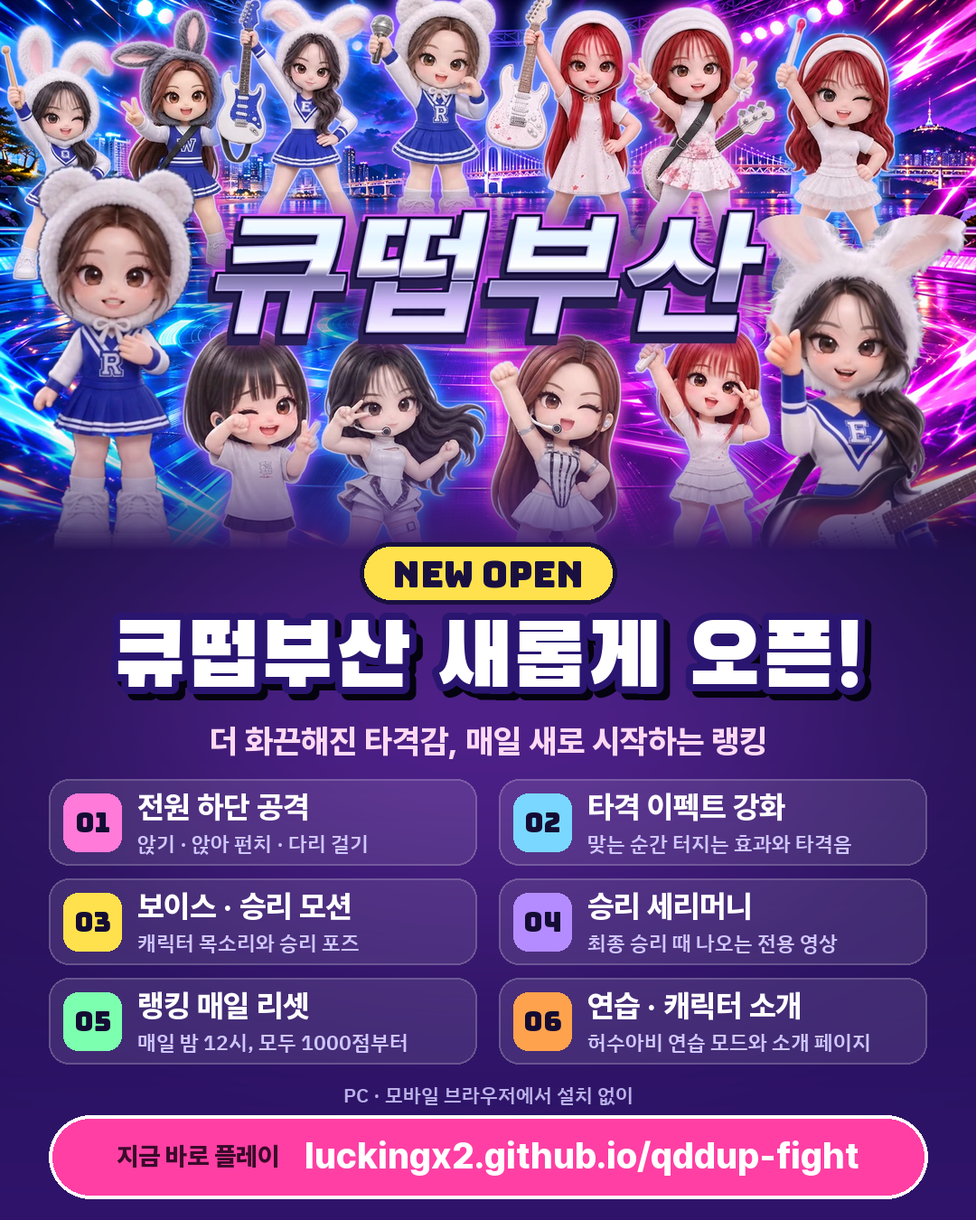
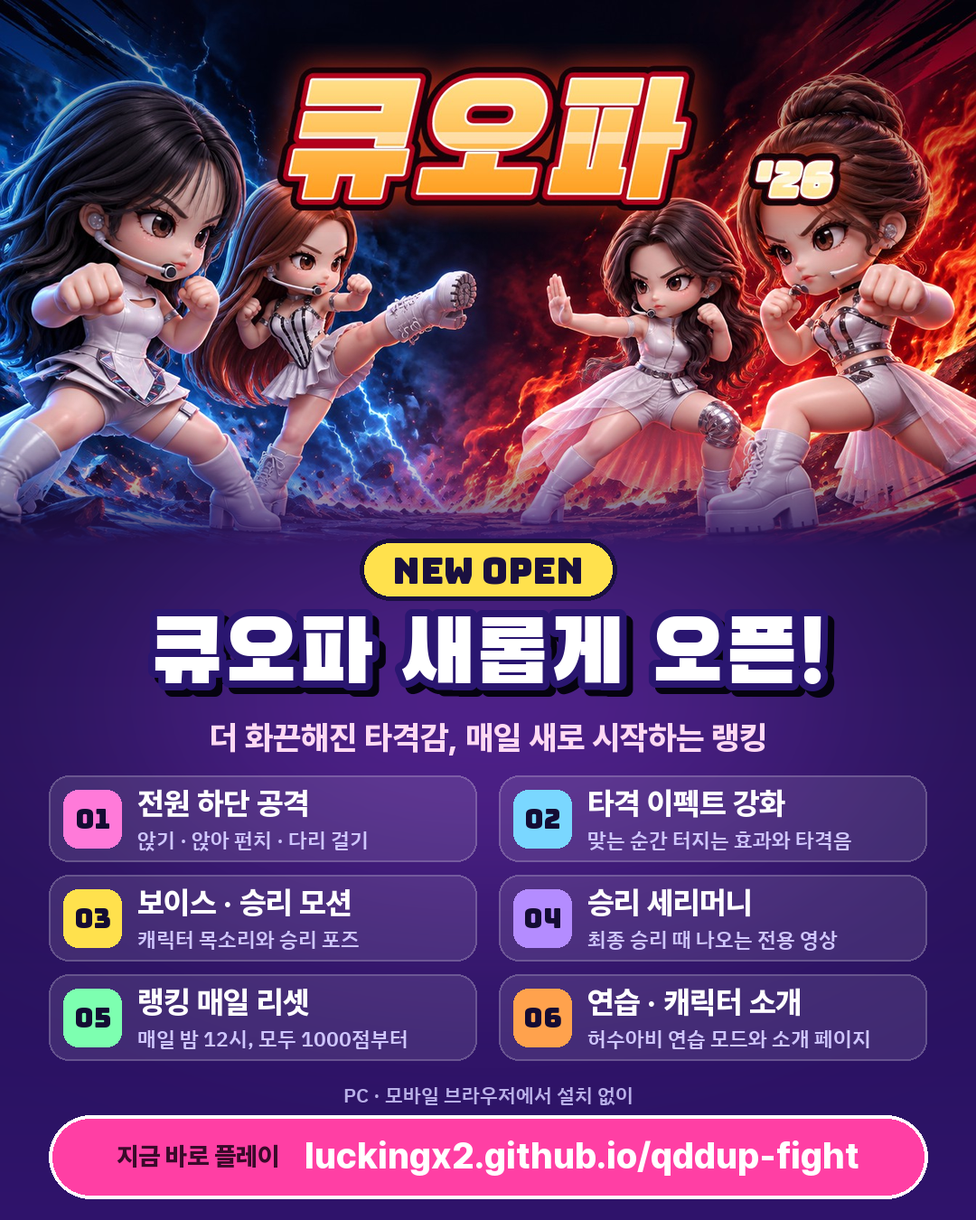
표지·썸네일·공지에서 큐떱·BUSAN 표기 제거

diff --git a/js/assetv.js b/js/assetv.js
@@ -1,2 +1,2 @@
-const ASSET_V={"assets/audio/bgm.mp3":"1aaba7b2","assets/audio/extra-1.mp3":"27643529","assets/audio/qwer-d-day.mp3":"2830167b","assets/audio/qwer-fake-idol.mp3":"d2b479f6","assets/audio/qwer-ferris-wheel.mp3":"120067c3","assets/audio/qwer-fireworks.mp3":"bdbf5ae5","assets/audio/qwer-goodbye-sorrow.mp3":"504b895b","assets/audio/qwer-my-name-is-malguem.mp3":"eebe45ad","assets/audio/qwer-search-qwer.mp3":"e2c33678","assets/audio/qwer-soda.mp3":"25b22c69","assets/audio/qwer-tb-h.mp3":"cb39dc88","assets/audio/voices/E-select.mp3":"017d7db5","assets/audio/voices/E-win.mp3":"9423c33f","assets/audio/voices/Q-select.mp3":"2b9a2cb5","assets/audio/voices/Q-win.mp3":"32c22843","assets/audio/voices/R-select.mp3":"67428aa2","assets/audio/voices/R-win.mp3":"421a2656","assets/audio/voices/W-select.mp3":"bfeec2d0","assets/audio/voices/W-win.mp3":"286b2432","assets/backgrounds/bg_anime.webp":"49189dc7","assets/backgrounds/bg_aqua.webp":"98b68019","assets/backgrounds/bg_band.webp":"b2ecf112","assets/backgrounds/bg_base.webp":"dd71b105","assets/backgrounds/bg_beach.webp":"48f2346a","assets/backgrounds/bg_bridge.webp":"cad93db2","assets/backgrounds/bg_chinatown.webp":"657c2390","assets/backgrounds/bg_classroom.webp":"5df32c50","assets/backgrounds/bg_concert.webp":"2cd4d734","assets/backgrounds/bg_donut.webp":"8b12e605","assets/backgrounds/bg_gym.webp":"c741473c","assets/backgrounds/bg_hanok.webp":"ea64c7f2","assets/backgrounds/bg_park.webp":"f8f69fbf","assets/backgrounds/bg_rain.webp":"c4dbcf99","assets/backgrounds/bg_rooftop.webp":"d08abb70","assets/backgrounds/bg_snow.webp":"0fe806eb","assets/backgrounds/bg_space.webp":"0ff66d08","assets/backgrounds/bg_terminal.webp":"d9e9f158","assets/backgrounds/bg_terminal_arcade.webp":"690b9758","assets/characters/B.webp":"c5a6628e","assets/characters/D.webp":"324939f1","assets/characters/E.webp":"677ed11c","assets/characters/Eb.webp":"11db0723","assets/characters/Ec.webp":"b31b9f96","assets/characters/G.webp":"42d3d0da","assets/characters/Q.webp":"325fa610","assets/characters/Qb.webp":"df11a9f2","assets/characters/Qc.webp":"ab10cb82","assets/characters/R.webp":"85eb20a9","assets/characters/Rb.webp":"7c654750","assets/characters/Rc.webp":"2e6c0a8f","assets/characters/Rd.webp":"b71dec04","assets/characters/W.webp":"9e1fc381","assets/characters/Wb.webp":"ae1be10e","assets/characters/Wc.webp":"da20931e","assets/characters/ostrich-r.webp":"f36485a3","assets/emotes/icon_1.webp":"e834c9fc","assets/emotes/icon_13.webp":"ced6be1a","assets/emotes/icon_19.webp":"6eca9b25","assets/emotes/icon_22.webp":"ad3d03f1","assets/emotes/icon_28.webp":"cb4c7512","assets/emotes/icon_33.webp":"57cf40f0","assets/emotes/icon_34.webp":"333682d6","assets/emotes/icon_36.webp":"1de00e10","assets/emotes/icon_38.webp":"52043a2f","assets/emotes/icon_39.webp":"ff33cab9","assets/emotes/icon_41.webp":"3f5fabf0","assets/emotes/icon_45.webp":"addf7b16","assets/emotes/icon_46.webp":"024ab088","assets/emotes/icon_49.webp":"be67b384","assets/emotes/icon_50.webp":"3c880ad8","assets/emotes/icon_57.webp":"7f6e5ae8","assets/emotes/icon_62.webp":"099a9ec7","assets/emotes/icon_65.webp":"d664ad8d","assets/emotes/icon_69.webp":"2050c1ed","assets/emotes/icon_8.webp":"3fe0846f","assets/emotes/icon_87.webp":"905d0d99","assets/emotes/icon_89.webp":"37372a3d","assets/emotes/icon_91.webp":"89b48092","assets/emotes/icon_92.webp":"6fb425ef","assets/emotes/icon_94.webp":"b110da8e","assets/emotes/icon_95.webp":"9a6b4437","assets/emotes/icon_98.webp":"2d258415","assets/emotes/thumb/icon_1.webp":"136837e5","assets/emotes/thumb/icon_13.webp":"5e3867c1","assets/emotes/thumb/icon_19.webp":"d6eb0f03","assets/emotes/thumb/icon_22.webp":"a767fc76","assets/emotes/thumb/icon_28.webp":"ec98b5a2","assets/emotes/thumb/icon_33.webp":"6408ba02","assets/emotes/thumb/icon_34.webp":"2aa3c54a","assets/emotes/thumb/icon_36.webp":"dc3e9788","assets/emotes/thumb/icon_38.webp":"7f85a09d","assets/emotes/thumb/icon_39.webp":"b1fadb0d","assets/emotes/thumb/icon_41.webp":"7303712b","assets/emotes/thumb/icon_45.webp":"7a1924c5","assets/emotes/thumb/icon_46.webp":"5835c768","assets/emotes/thumb/icon_49.webp":"50c5dac4","assets/emotes/thumb/icon_50.webp":"d23a8087","assets/emotes/thumb/icon_57.webp":"40b0eed8","assets/emotes/thumb/icon_62.webp":"a3d334ca","assets/emotes/thumb/icon_65.webp":"d96399f3","assets/emotes/thumb/icon_69.webp":"75195972","assets/emotes/thumb/icon_8.webp":"c5c82ee8","assets/emotes/thumb/icon_87.webp":"75462682","assets/emotes/thumb/icon_89.webp":"fa2fb05b","assets/emotes/thumb/icon_91.webp":"31208034","assets/emotes/thumb/icon_92.webp":"5de92e6a","assets/emotes/thumb/icon_94.webp":"87c7110b","assets/emotes/thumb/icon_95.webp":"eff04fc8","assets/emotes/thumb/icon_98.webp":"5caa213a","assets/faces/B_face.webp":"b1b04403","assets/faces/D_face.webp":"019111cc","assets/faces/E_face.webp":"5a365c76","assets/faces/Eb_face.webp":"52f1f416","assets/faces/Ec_face.webp":"0a22ee57","assets/faces/G_face.webp":"2df10de9","assets/faces/Q_face.webp":"842ad22d","assets/faces/Qb_face.webp":"480c3aff","assets/faces/Qc_face.webp":"30e2ab72","assets/faces/R_face.webp":"646f2d28","assets/faces/Rb_face.webp":"cb5505b5","assets/faces/Rc_face.webp":"025bb463","assets/faces/Rd_face.webp":"f00b88dc","assets/faces/W_face.webp":"c8fbc6b3","assets/faces/Wb_face.webp":"2849e1bc","assets/faces/Wc_face.webp":"2972e762","assets/fonts/BlackHanSans.woff2":"c73265bb","assets/fonts/Bungee.woff2":"8ac97fda","assets/fonts/IBMPlexSansKR-Regular.woff2":"737cb610","assets/fonts/IBMPlexSansKR-SemiBold.woff2":"57c25254","assets/fonts/OFL-BlackHanSans.txt":"380fde59","assets/fonts/OFL-Bungee.txt":"56667743","assets/fonts/OFL-IBMPlexSansKR.txt":"cc979ca3","assets/fonts/OFL-Pretendard.txt":"18fe4610","assets/fonts/Pretendard-ExtraBold.woff2":"1b077a90","assets/lib/peerjs.min.js":"7e60515a","assets/thumbnails/th_anime.jpg":"b3ed8d6a","assets/thumbnails/th_aqua.jpg":"b6233e26","assets/thumbnails/th_band.jpg":"aa12367e","assets/thumbnails/th_base.jpg":"a0ca34c4","assets/thumbnails/th_beach.jpg":"015c1b5a","assets/thumbnails/th_bridge.jpg":"9602dd89","assets/thumbnails/th_chinatown.jpg":"71309555","assets/thumbnails/th_classroom.jpg":"539fc97d","assets/thumbnails/th_concert.jpg":"b9ed6681","assets/thumbnails/th_donut.jpg":"0606e81c","assets/thumbnails/th_gym.jpg":"4426af79","assets/thumbnails/th_hanok.jpg":"df80f531","assets/thumbnails/th_park.jpg":"cf62f3c3","assets/thumbnails/th_rain.jpg":"515447f1","assets/thumbnails/th_rooftop.jpg":"bfd5d01a","assets/thumbnails/th_snow.jpg":"0159d7c5","assets/thumbnails/th_space.jpg":"5184dfa8","assets/thumbnails/th_terminal.jpg":"62f1e04b","assets/thumbnails/th_terminal_arcade.jpg":"ebf49341","assets/ui/qddup-busan-cover.jpg":"04b05f5f","assets/ui/qddup-busan-share.jpg":"23fca48c","assets/ui/qddup-busan-title.mp4":"1bfd18a7","assets/ui/qofa-cover.jpg":"c94842ad","assets/ui/qofa-share.jpg":"9a9f7c7e","assets/ui/roster-energy.webp":"add15ffe","assets/ui/roster/B.webp":"7de4b487","assets/ui/roster/E.webp":"940c568d","assets/ui/roster/Eb.webp":"bd00a1c0","assets/ui/roster/Ec.webp":"9044e970","assets/ui/roster/G.webp":"acd26a21","assets/ui/roster/Q.webp":"91b08bca","assets/ui/roster/Qb.webp":"315030af","assets/ui/roster/Qc.webp":"807f094b","assets/ui/roster/R.webp":"129f48d1","assets/ui/roster/Rb.webp":"536e0533","assets/ui/roster/Rc.webp":"50afe96b","assets/ui/roster/Rd.webp":"08cb5ab8","assets/ui/roster/W.webp":"070725d0","assets/ui/roster/Wb.webp":"c2614728","assets/ui/roster/Wc.webp":"f48d9b9d","assets/ui/title.jpg":"89b0c471","assets/videos/sp_B.mp4":"150e2f15","assets/videos/sp_E2.mp4":"21736269","assets/videos/sp_ET.mp4":"9086c33e","assets/videos/sp_E_fire.mp4":"5477b0e8","assets/videos/sp_Eb_fire.mp4":"3722005c","assets/videos/sp_Ec_fire.mp4":"af3d6c72","assets/videos/sp_G.mp4":"02491534","assets/videos/sp_GT.mp4":"ea8f6b3c","assets/videos/sp_Q.mp4":"9d97462e","assets/videos/sp_Q2.mp4":"eccec935","assets/videos/sp_QT.mp4":"517d9216","assets/videos/sp_Qb.mp4":"ae050595","assets/videos/sp_QbT.mp4":"f0f7e747","assets/videos/sp_Qc.mp4":"c8c7d81f","assets/videos/sp_QcT.mp4":"b05c5bd9","assets/videos/sp_R.mp4":"5e365d9b","assets/videos/sp_R2.mp4":"4cc11253","assets/videos/sp_RT.mp4":"2159bf91","assets/videos/sp_Rb.mp4":"c2c76571","assets/videos/sp_Rc.mp4":"cf1e9842","assets/videos/sp_RcT.mp4":"ee13eac9","assets/videos/sp_Rd.mp4":"d3ba4c66","assets/videos/sp_W.mp4":"631249ac","assets/videos/sp_W2.mp4":"34a85605","assets/videos/sp_WT.mp4":"455ada0a","assets/videos/sp_Wb.mp4":"28692d4d","assets/videos/sp_WbT.mp4":"d18a11b6","assets/videos/sp_Wc.mp4":"3fe96d12","assets/videos/sp_WcT.mp4":"e9213c75","assets/videos/win_E.mp4":"61c0dbbd","assets/videos/win_Eb.mp4":"f2eac728","assets/videos/win_Ec.mp4":"e704afee","assets/videos/win_Q.mp4":"f5259b04","assets/videos/win_Qb.mp4":"823f7246","assets/videos/win_Qc.mp4":"6fced5a8","assets/videos/win_R.mp4":"85216692","assets/videos/win_Rb.mp4":"78ffa0bc","assets/videos/win_Rc.mp4":"93689f08","assets/videos/win_Rd.mp4":"befb25e6","assets/videos/win_W.mp4":"bd2d0315","assets/videos/win_Wb.mp4":"349f8de9","assets/videos/win_Wc.mp4":"0f0dc337"};
-const ASSET_SZ={"assets/audio/bgm.mp3":2772671,"assets/audio/extra-1.mp3":1421208,"assets/audio/qwer-d-day.mp3":3481677,"assets/audio/qwer-fake-idol.mp3":3182324,"assets/audio/qwer-ferris-wheel.mp3":4416345,"assets/audio/qwer-fireworks.mp3":4191692,"assets/audio/qwer-goodbye-sorrow.mp3":6512732,"assets/audio/qwer-my-name-is-malguem.mp3":2423692,"assets/audio/qwer-search-qwer.mp3":3201656,"assets/audio/qwer-soda.mp3":2520451,"assets/audio/qwer-tb-h.mp3":2492552,"assets/audio/voices/E-select.mp3":56436,"assets/audio/voices/E-win.mp3":50100,"assets/audio/voices/Q-select.mp3":24180,"assets/audio/voices/Q-win.mp3":56436,"assets/audio/voices/R-select.mp3":21045,"assets/audio/voices/R-win.mp3":50733,"assets/audio/voices/W-select.mp3":41460,"assets/audio/voices/W-win.mp3":52980,"assets/backgrounds/bg_anime.webp":271666,"assets/backgrounds/bg_aqua.webp":234124,"assets/backgrounds/bg_band.webp":259886,"assets/backgrounds/bg_base.webp":242646,"assets/backgrounds/bg_beach.webp":207688,"assets/backgrounds/bg_bridge.webp":245720,"assets/backgrounds/bg_chinatown.webp":352216,"assets/backgrounds/bg_classroom.webp":211716,"assets/backgrounds/bg_concert.webp":351622,"assets/backgrounds/bg_donut.webp":157200,"assets/backgrounds/bg_gym.webp":192070,"assets/backgrounds/bg_hanok.webp":323540,"assets/backgrounds/bg_park.webp":255544,"assets/backgrounds/bg_rain.webp":325186,"assets/backgrounds/bg_rooftop.webp":285004,"assets/backgrounds/bg_snow.webp":257586,"assets/backgrounds/bg_space.webp":159604,"assets/backgrounds/bg_terminal.webp":180640,"assets/backgrounds/bg_terminal_arcade.webp":196664,"assets/characters/B.webp":383354,"assets/characters/D.webp":77542,"assets/characters/E.webp":439222,"assets/characters/Eb.webp":542744,"assets/characters/Ec.webp":439992,"assets/characters/G.webp":308240,"assets/characters/Q.webp":439468,"assets/characters/Qb.webp":557222,"assets/characters/Qc.webp":408770,"assets/characters/R.webp":385970,"assets/characters/Rb.webp":419060,"assets/characters/Rc.webp":262474,"assets/characters/Rd.webp":367076,"assets/characters/W.webp":417796,"assets/characters/Wb.webp":504586,"assets/characters/Wc.webp":438174,"assets/characters/ostrich-r.webp":95146,"assets/emotes/icon_1.webp":24284,"assets/emotes/icon_13.webp":11612,"assets/emotes/icon_19.webp":11468,"assets/emotes/icon_22.webp":104130,"assets/emotes/icon_28.webp":72896,"assets/emotes/icon_33.webp":68612,"assets/emotes/icon_34.webp":87226,"assets/emotes/icon_36.webp":12980,"assets/emotes/icon_38.webp":12060,"assets/emotes/icon_39.webp":42844,"assets/emotes/icon_41.webp":12516,"assets/emotes/icon_45.webp":10738,"assets/emotes/icon_46.webp":13110,"assets/emotes/icon_49.webp":303222,"assets/emotes/icon_50.webp":128238,"assets/emotes/icon_57.webp":483596,"assets/emotes/icon_62.webp":24446,"assets/emotes/icon_65.webp":306944,"assets/emotes/icon_69.webp":251610,"assets/emotes/icon_8.webp":10938,"assets/emotes/icon_87.webp":91344,"assets/emotes/icon_89.webp":88876,"assets/emotes/icon_91.webp":62702,"assets/emotes/icon_92.webp":63076,"assets/emotes/icon_94.webp":11038,"assets/emotes/icon_95.webp":10806,"assets/emotes/icon_98.webp":239080,"assets/emotes/thumb/icon_1.webp":7826,"assets/emotes/thumb/icon_13.webp":8382,"assets/emotes/thumb/icon_19.webp":8352,"assets/emotes/thumb/icon_22.webp":7784,"assets/emotes/thumb/icon_28.webp":7924,"assets/emotes/thumb/icon_33.webp":8026,"assets/emotes/thumb/icon_34.webp":8784,"assets/emotes/thumb/icon_36.webp":9036,"assets/emotes/thumb/icon_38.webp":8554,"assets/emotes/thumb/icon_39.webp":7942,"assets/emotes/thumb/icon_41.webp":8642,"assets/emotes/thumb/icon_45.webp":7962,"assets/emotes/thumb/icon_46.webp":8930,"assets/emotes/thumb/icon_49.webp":8634,"assets/emotes/thumb/icon_50.webp":7804,"assets/emotes/thumb/icon_57.webp":8212,"assets/emotes/thumb/icon_62.webp":8168,"assets/emotes/thumb/icon_65.webp":8550,"assets/emotes/thumb/icon_69.webp":8106,"assets/emotes/thumb/icon_8.webp":8208,"assets/emotes/thumb/icon_87.webp":9368,"assets/emotes/thumb/icon_89.webp":9366,"assets/emotes/thumb/icon_91.webp":8526,"assets/emotes/thumb/icon_92.webp":8508,"assets/emotes/thumb/icon_94.webp":8008,"assets/emotes/thumb/icon_95.webp":8006,"assets/emotes/thumb/icon_98.webp":7554,"assets/faces/B_face.webp":26876,"assets/faces/D_face.webp":30910,"assets/faces/E_face.webp":31448,"assets/faces/Eb_face.webp":28958,"assets/faces/Ec_face.webp":29514,"assets/faces/G_face.webp":34300,"assets/faces/Q_face.webp":31514,"assets/faces/Qb_face.webp":25830,"assets/faces/Qc_face.webp":26818,"assets/faces/R_face.webp":29534,"assets/faces/Rb_face.webp":29564,"assets/faces/Rc_face.webp":27480,"assets/faces/Rd_face.webp":34056,"assets/faces/W_face.webp":34596,"assets/faces/Wb_face.webp":32668,"assets/faces/Wc_face.webp":28818,"assets/fonts/BlackHanSans.woff2":166800,"assets/fonts/Bungee.woff2":13352,"assets/fonts/IBMPlexSansKR-Regular.woff2":226624,"assets/fonts/IBMPlexSansKR-SemiBold.woff2":264208,"assets/fonts/OFL-BlackHanSans.txt":4399,"assets/fonts/OFL-Bungee.txt":4380,"assets/fonts/OFL-IBMPlexSansKR.txt":4363,"assets/fonts/OFL-Pretendard.txt":4441,"assets/fonts/Pretendard-ExtraBold.woff2":182064,"assets/lib/peerjs.min.js":92865,"assets/thumbnails/th_anime.jpg":31332,"assets/thumbnails/th_aqua.jpg":29758,"assets/thumbnails/th_band.jpg":30030,"assets/thumbnails/th_base.jpg":24583,"assets/thumbnails/th_beach.jpg":26187,"assets/thumbnails/th_bridge.jpg":22121,"assets/thumbnails/th_chinatown.jpg":26539,"assets/thumbnails/th_classroom.jpg":21560,"assets/thumbnails/th_concert.jpg":34117,"assets/thumbnails/th_donut.jpg":26806,"assets/thumbnails/th_gym.jpg":30375,"assets/thumbnails/th_hanok.jpg":30309,"assets/thumbnails/th_park.jpg":29202,"assets/thumbnails/th_rain.jpg":23667,"assets/thumbnails/th_rooftop.jpg":29082,"assets/thumbnails/th_snow.jpg":31092,"assets/thumbnails/th_space.jpg":27325,"assets/thumbnails/th_terminal.jpg":19029,"assets/thumbnails/th_terminal_arcade.jpg":22903,"assets/ui/qddup-busan-cover.jpg":595026,"assets/ui/qddup-busan-share.jpg":321761,"assets/ui/qddup-busan-title.mp4":6951589,"assets/ui/qofa-cover.jpg":348381,"assets/ui/qofa-share.jpg":244579,"assets/ui/roster-energy.webp":66212,"assets/ui/roster/B.webp":32290,"assets/ui/roster/E.webp":30794,"assets/ui/roster/Eb.webp":61010,"assets/ui/roster/Ec.webp":48316,"assets/ui/roster/G.webp":26892,"assets/ui/roster/Q.webp":34780,"assets/ui/roster/Qb.webp":42952,"assets/ui/roster/Qc.webp":35238,"assets/ui/roster/R.webp":43480,"assets/ui/roster/Rb.webp":34188,"assets/ui/roster/Rc.webp":20354,"assets/ui/roster/Rd.webp":31504,"assets/ui/roster/W.webp":31680,"assets/ui/roster/Wb.webp":44496,"assets/ui/roster/Wc.webp":40038,"assets/ui/title.jpg":462238,"assets/videos/sp_B.mp4":344913,"assets/videos/sp_E2.mp4":555611,"assets/videos/sp_ET.mp4":590812,"assets/videos/sp_E_fire.mp4":485303,"assets/videos/sp_Eb_fire.mp4":540582,"assets/videos/sp_Ec_fire.mp4":462202,"assets/videos/sp_G.mp4":391907,"assets/videos/sp_GT.mp4":327412,"assets/videos/sp_Q.mp4":576475,"assets/videos/sp_Q2.mp4":446211,"assets/videos/sp_QT.mp4":552351,"assets/videos/sp_Qb.mp4":895493,"assets/videos/sp_QbT.mp4":958651,"assets/videos/sp_Qc.mp4":515706,"assets/videos/sp_QcT.mp4":543566,"assets/videos/sp_R.mp4":570469,"assets/videos/sp_R2.mp4":581679,"assets/videos/sp_RT.mp4":728137,"assets/videos/sp_Rb.mp4":450254,"assets/videos/sp_Rc.mp4":604079,"assets/videos/sp_RcT.mp4":732498,"assets/videos/sp_Rd.mp4":302202,"assets/videos/sp_W.mp4":487224,"assets/videos/sp_W2.mp4":595850,"assets/videos/sp_WT.mp4":682716,"assets/videos/sp_Wb.mp4":463691,"assets/videos/sp_WbT.mp4":806668,"assets/videos/sp_Wc.mp4":368021,"assets/videos/sp_WcT.mp4":518172,"assets/videos/win_E.mp4":1664151,"assets/videos/win_Eb.mp4":1416780,"assets/videos/win_Ec.mp4":1516352,"assets/videos/win_Q.mp4":1371788,"assets/videos/win_Qb.mp4":1334217,"assets/videos/win_Qc.mp4":1481245,"assets/videos/win_R.mp4":1211274,"assets/videos/win_Rb.mp4":1201611,"assets/videos/win_Rc.mp4":1199946,"assets/videos/win_Rd.mp4":1812226,"assets/videos/win_W.mp4":1770408,"assets/videos/win_Wb.mp4":1332037,"assets/videos/win_Wc.mp4":1279533};
+const ASSET_V={"assets/audio/bgm.mp3":"1aaba7b2","assets/audio/extra-1.mp3":"27643529","assets/audio/qwer-d-day.mp3":"2830167b","assets/audio/qwer-fake-idol.mp3":"d2b479f6","assets/audio/qwer-ferris-wheel.mp3":"120067c3","assets/audio/qwer-fireworks.mp3":"bdbf5ae5","assets/audio/qwer-goodbye-sorrow.mp3":"504b895b","assets/audio/qwer-my-name-is-malguem.mp3":"eebe45ad","assets/audio/qwer-search-qwer.mp3":"e2c33678","assets/audio/qwer-soda.mp3":"25b22c69","assets/audio/qwer-tb-h.mp3":"cb39dc88","assets/audio/voices/E-select.mp3":"017d7db5","assets/audio/voices/E-win.mp3":"9423c33f","assets/audio/voices/Q-select.mp3":"2b9a2cb5","assets/audio/voices/Q-win.mp3":"32c22843","assets/audio/voices/R-select.mp3":"67428aa2","assets/audio/voices/R-win.mp3":"421a2656","assets/audio/voices/W-select.mp3":"bfeec2d0","assets/audio/voices/W-win.mp3":"286b2432","assets/backgrounds/bg_anime.webp":"49189dc7","assets/backgrounds/bg_aqua.webp":"98b68019","assets/backgrounds/bg_band.webp":"b2ecf112","assets/backgrounds/bg_base.webp":"dd71b105","assets/backgrounds/bg_beach.webp":"48f2346a","assets/backgrounds/bg_bridge.webp":"cad93db2","assets/backgrounds/bg_chinatown.webp":"657c2390","assets/backgrounds/bg_classroom.webp":"5df32c50","assets/backgrounds/bg_concert.webp":"2cd4d734","assets/backgrounds/bg_donut.webp":"8b12e605","assets/backgrounds/bg_gym.webp":"c741473c","assets/backgrounds/bg_hanok.webp":"ea64c7f2","assets/backgrounds/bg_park.webp":"f8f69fbf","assets/backgrounds/bg_rain.webp":"c4dbcf99","assets/backgrounds/bg_rooftop.webp":"d08abb70","assets/backgrounds/bg_snow.webp":"0fe806eb","assets/backgrounds/bg_space.webp":"0ff66d08","assets/backgrounds/bg_terminal.webp":"d9e9f158","assets/backgrounds/bg_terminal_arcade.webp":"690b9758","assets/characters/B.webp":"c5a6628e","assets/characters/D.webp":"324939f1","assets/characters/E.webp":"677ed11c","assets/characters/Eb.webp":"11db0723","assets/characters/Ec.webp":"b31b9f96","assets/characters/G.webp":"42d3d0da","assets/characters/Q.webp":"325fa610","assets/characters/Qb.webp":"df11a9f2","assets/characters/Qc.webp":"ab10cb82","assets/characters/R.webp":"85eb20a9","assets/characters/Rb.webp":"7c654750","assets/characters/Rc.webp":"2e6c0a8f","assets/characters/Rd.webp":"b71dec04","assets/characters/W.webp":"9e1fc381","assets/characters/Wb.webp":"ae1be10e","assets/characters/Wc.webp":"da20931e","assets/characters/ostrich-r.webp":"f36485a3","assets/emotes/icon_1.webp":"e834c9fc","assets/emotes/icon_13.webp":"ced6be1a","assets/emotes/icon_19.webp":"6eca9b25","assets/emotes/icon_22.webp":"ad3d03f1","assets/emotes/icon_28.webp":"cb4c7512","assets/emotes/icon_33.webp":"57cf40f0","assets/emotes/icon_34.webp":"333682d6","assets/emotes/icon_36.webp":"1de00e10","assets/emotes/icon_38.webp":"52043a2f","assets/emotes/icon_39.webp":"ff33cab9","assets/emotes/icon_41.webp":"3f5fabf0","assets/emotes/icon_45.webp":"addf7b16","assets/emotes/icon_46.webp":"024ab088","assets/emotes/icon_49.webp":"be67b384","assets/emotes/icon_50.webp":"3c880ad8","assets/emotes/icon_57.webp":"7f6e5ae8","assets/emotes/icon_62.webp":"099a9ec7","assets/emotes/icon_65.webp":"d664ad8d","assets/emotes/icon_69.webp":"2050c1ed","assets/emotes/icon_8.webp":"3fe0846f","assets/emotes/icon_87.webp":"905d0d99","assets/emotes/icon_89.webp":"37372a3d","assets/emotes/icon_91.webp":"89b48092","assets/emotes/icon_92.webp":"6fb425ef","assets/emotes/icon_94.webp":"b110da8e","assets/emotes/icon_95.webp":"9a6b4437","assets/emotes/icon_98.webp":"2d258415","assets/emotes/thumb/icon_1.webp":"136837e5","assets/emotes/thumb/icon_13.webp":"5e3867c1","assets/emotes/thumb/icon_19.webp":"d6eb0f03","assets/emotes/thumb/icon_22.webp":"a767fc76","assets/emotes/thumb/icon_28.webp":"ec98b5a2","assets/emotes/thumb/icon_33.webp":"6408ba02","assets/emotes/thumb/icon_34.webp":"2aa3c54a","assets/emotes/thumb/icon_36.webp":"dc3e9788","assets/emotes/thumb/icon_38.webp":"7f85a09d","assets/emotes/thumb/icon_39.webp":"b1fadb0d","assets/emotes/thumb/icon_41.webp":"7303712b","assets/emotes/thumb/icon_45.webp":"7a1924c5","assets/emotes/thumb/icon_46.webp":"5835c768","assets/emotes/thumb/icon_49.webp":"50c5dac4","assets/emotes/thumb/icon_50.webp":"d23a8087","assets/emotes/thumb/icon_57.webp":"40b0eed8","assets/emotes/thumb/icon_62.webp":"a3d334ca","assets/emotes/thumb/icon_65.webp":"d96399f3","assets/emotes/thumb/icon_69.webp":"75195972","assets/emotes/thumb/icon_8.webp":"c5c82ee8","assets/emotes/thumb/icon_87.webp":"75462682","assets/emotes/thumb/icon_89.webp":"fa2fb05b","assets/emotes/thumb/icon_91.webp":"31208034","assets/emotes/thumb/icon_92.webp":"5de92e6a","assets/emotes/thumb/icon_94.webp":"87c7110b","assets/emotes/thumb/icon_95.webp":"eff04fc8","assets/emotes/thumb/icon_98.webp":"5caa213a","assets/faces/B_face.webp":"b1b04403","assets/faces/D_face.webp":"019111cc","assets/faces/E_face.webp":"5a365c76","assets/faces/Eb_face.webp":"52f1f416","assets/faces/Ec_face.webp":"0a22ee57","assets/faces/G_face.webp":"2df10de9","assets/faces/Q_face.webp":"842ad22d","assets/faces/Qb_face.webp":"480c3aff","assets/faces/Qc_face.webp":"30e2ab72","assets/faces/R_face.webp":"646f2d28","assets/faces/Rb_face.webp":"cb5505b5","assets/faces/Rc_face.webp":"025bb463","assets/faces/Rd_face.webp":"f00b88dc","assets/faces/W_face.webp":"c8fbc6b3","assets/faces/Wb_face.webp":"2849e1bc","assets/faces/Wc_face.webp":"2972e762","assets/fonts/BlackHanSans.woff2":"c73265bb","assets/fonts/Bungee.woff2":"8ac97fda","assets/fonts/IBMPlexSansKR-Regular.woff2":"737cb610","assets/fonts/IBMPlexSansKR-SemiBold.woff2":"57c25254","assets/fonts/OFL-BlackHanSans.txt":"380fde59","assets/fonts/OFL-Bungee.txt":"56667743","assets/fonts/OFL-IBMPlexSansKR.txt":"cc979ca3","assets/fonts/OFL-Pretendard.txt":"18fe4610","assets/fonts/Pretendard-ExtraBold.woff2":"1b077a90","assets/lib/peerjs.min.js":"7e60515a","assets/thumbnails/th_anime.jpg":"b3ed8d6a","assets/thumbnails/th_aqua.jpg":"b6233e26","assets/thumbnails/th_band.jpg":"aa12367e","assets/thumbnails/th_base.jpg":"a0ca34c4","assets/thumbnails/th_beach.jpg":"015c1b5a","assets/thumbnails/th_bridge.jpg":"9602dd89","assets/thumbnails/th_chinatown.jpg":"71309555","assets/thumbnails/th_classroom.jpg":"539fc97d","assets/thumbnails/th_concert.jpg":"b9ed6681","assets/thumbnails/th_donut.jpg":"0606e81c","assets/thumbnails/th_gym.jpg":"4426af79","assets/thumbnails/th_hanok.jpg":"df80f531","assets/thumbnails/th_park.jpg":"cf62f3c3","assets/thumbnails/th_rain.jpg":"515447f1","assets/thumbnails/th_rooftop.jpg":"bfd5d01a","assets/thumbnails/th_snow.jpg":"0159d7c5","assets/thumbnails/th_space.jpg":"5184dfa8","assets/thumbnails/th_terminal.jpg":"62f1e04b","assets/thumbnails/th_terminal_arcade.jpg":"ebf49341","assets/ui/qddup-busan-cover.jpg":"04b05f5f","assets/ui/qddup-busan-share.jpg":"23fca48c","assets/ui/qddup-busan-title.mp4":"1bfd18a7","assets/ui/qofa-cover.jpg":"895f494d","assets/ui/qofa-preview.jpg":"c9a267d3","assets/ui/roster-energy.webp":"add15ffe","assets/ui/roster/B.webp":"7de4b487","assets/ui/roster/E.webp":"940c568d","assets/ui/roster/Eb.webp":"bd00a1c0","assets/ui/roster/Ec.webp":"9044e970","assets/ui/roster/G.webp":"acd26a21","assets/ui/roster/Q.webp":"91b08bca","assets/ui/roster/Qb.webp":"315030af","assets/ui/roster/Qc.webp":"807f094b","assets/ui/roster/R.webp":"129f48d1","assets/ui/roster/Rb.webp":"536e0533","assets/ui/roster/Rc.webp":"50afe96b","assets/ui/roster/Rd.webp":"08cb5ab8","assets/ui/roster/W.webp":"070725d0","assets/ui/roster/Wb.webp":"c2614728","assets/ui/roster/Wc.webp":"f48d9b9d","assets/ui/title.jpg":"89b0c471","assets/videos/sp_B.mp4":"150e2f15","assets/videos/sp_E2.mp4":"21736269","assets/videos/sp_ET.mp4":"9086c33e","assets/videos/sp_E_fire.mp4":"5477b0e8","assets/videos/sp_Eb_fire.mp4":"3722005c","assets/videos/sp_Ec_fire.mp4":"af3d6c72","assets/videos/sp_G.mp4":"02491534","assets/videos/sp_GT.mp4":"ea8f6b3c","assets/videos/sp_Q.mp4":"9d97462e","assets/videos/sp_Q2.mp4":"eccec935","assets/videos/sp_QT.mp4":"517d9216","assets/videos/sp_Qb.mp4":"ae050595","assets/videos/sp_QbT.mp4":"f0f7e747","assets/videos/sp_Qc.mp4":"c8c7d81f","assets/videos/sp_QcT.mp4":"b05c5bd9","assets/videos/sp_R.mp4":"5e365d9b","assets/videos/sp_R2.mp4":"4cc11253","assets/videos/sp_RT.mp4":"2159bf91","assets/videos/sp_Rb.mp4":"c2c76571","assets/videos/sp_Rc.mp4":"cf1e9842","assets/videos/sp_RcT.mp4":"ee13eac9","assets/videos/sp_Rd.mp4":"d3ba4c66","assets/videos/sp_W.mp4":"631249ac","assets/videos/sp_W2.mp4":"34a85605","assets/videos/sp_WT.mp4":"455ada0a","assets/videos/sp_Wb.mp4":"28692d4d","assets/videos/sp_WbT.mp4":"d18a11b6","assets/videos/sp_Wc.mp4":"3fe96d12","assets/videos/sp_WcT.mp4":"e9213c75","assets/videos/win_E.mp4":"61c0dbbd","assets/videos/win_Eb.mp4":"f2eac728","assets/videos/win_Ec.mp4":"e704afee","assets/videos/win_Q.mp4":"f5259b04","assets/videos/win_Qb.mp4":"823f7246","assets/videos/win_Qc.mp4":"6fced5a8","assets/videos/win_R.mp4":"85216692","assets/videos/win_Rb.mp4":"78ffa0bc","assets/videos/win_Rc.mp4":"93689f08","assets/videos/win_Rd.mp4":"befb25e6","assets/videos/win_W.mp4":"bd2d0315","assets/videos/win_Wb.mp4":"349f8de9","assets/videos/win_Wc.mp4":"0f0dc337"};
+const ASSET_SZ={"assets/audio/bgm.mp3":2772671,"assets/audio/extra-1.mp3":1421208,"assets/audio/qwer-d-day.mp3":3481677,"assets/audio/qwer-fake-idol.mp3":3182324,"assets/audio/qwer-ferris-wheel.mp3":4416345,"assets/audio/qwer-fireworks.mp3":4191692,"assets/audio/qwer-goodbye-sorrow.mp3":6512732,"assets/audio/qwer-my-name-is-malguem.mp3":2423692,"assets/audio/qwer-search-qwer.mp3":3201656,"assets/audio/qwer-soda.mp3":2520451,"assets/audio/qwer-tb-h.mp3":2492552,"assets/audio/voices/E-select.mp3":56436,"assets/audio/voices/E-win.mp3":50100,"assets/audio/voices/Q-select.mp3":24180,"assets/audio/voices/Q-win.mp3":56436,"assets/audio/voices/R-select.mp3":21045,"assets/audio/voices/R-win.mp3":50733,"assets/audio/voices/W-select.mp3":41460,"assets/audio/voices/W-win.mp3":52980,"assets/backgrounds/bg_anime.webp":271666,"assets/backgrounds/bg_aqua.webp":234124,"assets/backgrounds/bg_band.webp":259886,"assets/backgrounds/bg_base.webp":242646,"assets/backgrounds/bg_beach.webp":207688,"assets/backgrounds/bg_bridge.webp":245720,"assets/backgrounds/bg_chinatown.webp":352216,"assets/backgrounds/bg_classroom.webp":211716,"assets/backgrounds/bg_concert.webp":351622,"assets/backgrounds/bg_donut.webp":157200,"assets/backgrounds/bg_gym.webp":192070,"assets/backgrounds/bg_hanok.webp":323540,"assets/backgrounds/bg_park.webp":255544,"assets/backgrounds/bg_rain.webp":325186,"assets/backgrounds/bg_rooftop.webp":285004,"assets/backgrounds/bg_snow.webp":257586,"assets/backgrounds/bg_space.webp":159604,"assets/backgrounds/bg_terminal.webp":180640,"assets/backgrounds/bg_terminal_arcade.webp":196664,"assets/characters/B.webp":383354,"assets/characters/D.webp":77542,"assets/characters/E.webp":439222,"assets/characters/Eb.webp":542744,"assets/characters/Ec.webp":439992,"assets/characters/G.webp":308240,"assets/characters/Q.webp":439468,"assets/characters/Qb.webp":557222,"assets/characters/Qc.webp":408770,"assets/characters/R.webp":385970,"assets/characters/Rb.webp":419060,"assets/characters/Rc.webp":262474,"assets/characters/Rd.webp":367076,"assets/characters/W.webp":417796,"assets/characters/Wb.webp":504586,"assets/characters/Wc.webp":438174,"assets/characters/ostrich-r.webp":95146,"assets/emotes/icon_1.webp":24284,"assets/emotes/icon_13.webp":11612,"assets/emotes/icon_19.webp":11468,"assets/emotes/icon_22.webp":104130,"assets/emotes/icon_28.webp":72896,"assets/emotes/icon_33.webp":68612,"assets/emotes/icon_34.webp":87226,"assets/emotes/icon_36.webp":12980,"assets/emotes/icon_38.webp":12060,"assets/emotes/icon_39.webp":42844,"assets/emotes/icon_41.webp":12516,"assets/emotes/icon_45.webp":10738,"assets/emotes/icon_46.webp":13110,"assets/emotes/icon_49.webp":303222,"assets/emotes/icon_50.webp":128238,"assets/emotes/icon_57.webp":483596,"assets/emotes/icon_62.webp":24446,"assets/emotes/icon_65.webp":306944,"assets/emotes/icon_69.webp":251610,"assets/emotes/icon_8.webp":10938,"assets/emotes/icon_87.webp":91344,"assets/emotes/icon_89.webp":88876,"assets/emotes/icon_91.webp":62702,"assets/emotes/icon_92.webp":63076,"assets/emotes/icon_94.webp":11038,"assets/emotes/icon_95.webp":10806,"assets/emotes/icon_98.webp":239080,"assets/emotes/thumb/icon_1.webp":7826,"assets/emotes/thumb/icon_13.webp":8382,"assets/emotes/thumb/icon_19.webp":8352,"assets/emotes/thumb/icon_22.webp":7784,"assets/emotes/thumb/icon_28.webp":7924,"assets/emotes/thumb/icon_33.webp":8026,"assets/emotes/thumb/icon_34.webp":8784,"assets/emotes/thumb/icon_36.webp":9036,"assets/emotes/thumb/icon_38.webp":8554,"assets/emotes/thumb/icon_39.webp":7942,"assets/emotes/thumb/icon_41.webp":8642,"assets/emotes/thumb/icon_45.webp":7962,"assets/emotes/thumb/icon_46.webp":8930,"assets/emotes/thumb/icon_49.webp":8634,"assets/emotes/thumb/icon_50.webp":7804,"assets/emotes/thumb/icon_57.webp":8212,"assets/emotes/thumb/icon_62.webp":8168,"assets/emotes/thumb/icon_65.webp":8550,"assets/emotes/thumb/icon_69.webp":8106,"assets/emotes/thumb/icon_8.webp":8208,"assets/emotes/thumb/icon_87.webp":9368,"assets/emotes/thumb/icon_89.webp":9366,"assets/emotes/thumb/icon_91.webp":8526,"assets/emotes/thumb/icon_92.webp":8508,"assets/emotes/thumb/icon_94.webp":8008,"assets/emotes/thumb/icon_95.webp":8006,"assets/emotes/thumb/icon_98.webp":7554,"assets/faces/B_face.webp":26876,"assets/faces/D_face.webp":30910,"assets/faces/E_face.webp":31448,"assets/faces/Eb_face.webp":28958,"assets/faces/Ec_face.webp":29514,"assets/faces/G_face.webp":34300,"assets/faces/Q_face.webp":31514,"assets/faces/Qb_face.webp":25830,"assets/faces/Qc_face.webp":26818,"assets/faces/R_face.webp":29534,"assets/faces/Rb_face.webp":29564,"assets/faces/Rc_face.webp":27480,"assets/faces/Rd_face.webp":34056,"assets/faces/W_face.webp":34596,"assets/faces/Wb_face.webp":32668,"assets/faces/Wc_face.webp":28818,"assets/fonts/BlackHanSans.woff2":166800,"assets/fonts/Bungee.woff2":13352,"assets/fonts/IBMPlexSansKR-Regular.woff2":226624,"assets/fonts/IBMPlexSansKR-SemiBold.woff2":264208,"assets/fonts/OFL-BlackHanSans.txt":4399,"assets/fonts/OFL-Bungee.txt":4380,"assets/fonts/OFL-IBMPlexSansKR.txt":4363,"assets/fonts/OFL-Pretendard.txt":4441,"assets/fonts/Pretendard-ExtraBold.woff2":182064,"assets/lib/peerjs.min.js":92865,"assets/thumbnails/th_anime.jpg":31332,"assets/thumbnails/th_aqua.jpg":29758,"assets/thumbnails/th_band.jpg":30030,"assets/thumbnails/th_base.jpg":24583,"assets/thumbnails/th_beach.jpg":26187,"assets/thumbnails/th_bridge.jpg":22121,"assets/thumbnails/th_chinatown.jpg":26539,"assets/thumbnails/th_classroom.jpg":21560,"assets/thumbnails/th_concert.jpg":34117,"assets/thumbnails/th_donut.jpg":26806,"assets/thumbnails/th_gym.jpg":30375,"assets/thumbnails/th_hanok.jpg":30309,"assets/thumbnails/th_park.jpg":29202,"assets/thumbnails/th_rain.jpg":23667,"assets/thumbnails/th_rooftop.jpg":29082,"assets/thumbnails/th_snow.jpg":31092,"assets/thumbnails/th_space.jpg":27325,"assets/thumbnails/th_terminal.jpg":19029,"assets/thumbnails/th_terminal_arcade.jpg":22903,"assets/ui/qddup-busan-cover.jpg":595026,"assets/ui/qddup-busan-share.jpg":321761,"assets/ui/qddup-busan-title.mp4":6951589,"assets/ui/qofa-cover.jpg":338256,"assets/ui/qofa-preview.jpg":238029,"assets/ui/roster-energy.webp":66212,"assets/ui/roster/B.webp":32290,"assets/ui/roster/E.webp":30794,"assets/ui/roster/Eb.webp":61010,"assets/ui/roster/Ec.webp":48316,"assets/ui/roster/G.webp":26892,"assets/ui/roster/Q.webp":34780,"assets/ui/roster/Qb.webp":42952,"assets/ui/roster/Qc.webp":35238,"assets/ui/roster/R.webp":43480,"assets/ui/roster/Rb.webp":34188,"assets/ui/roster/Rc.webp":20354,"assets/ui/roster/Rd.webp":31504,"assets/ui/roster/W.webp":31680,"assets/ui/roster/Wb.webp":44496,"assets/ui/roster/Wc.webp":40038,"assets/ui/title.jpg":462238,"assets/videos/sp_B.mp4":344913,"assets/videos/sp_E2.mp4":555611,"assets/videos/sp_ET.mp4":590812,"assets/videos/sp_E_fire.mp4":485303,"assets/videos/sp_Eb_fire.mp4":540582,"assets/videos/sp_Ec_fire.mp4":462202,"assets/videos/sp_G.mp4":391907,"assets/videos/sp_GT.mp4":327412,"assets/videos/sp_Q.mp4":576475,"assets/videos/sp_Q2.mp4":446211,"assets/videos/sp_QT.mp4":552351,"assets/videos/sp_Qb.mp4":895493,"assets/videos/sp_QbT.mp4":958651,"assets/videos/sp_Qc.mp4":515706,"assets/videos/sp_QcT.mp4":543566,"assets/videos/sp_R.mp4":570469,"assets/videos/sp_R2.mp4":581679,"assets/videos/sp_RT.mp4":728137,"assets/videos/sp_Rb.mp4":450254,"assets/videos/sp_Rc.mp4":604079,"assets/videos/sp_RcT.mp4":732498,"assets/videos/sp_Rd.mp4":302202,"assets/videos/sp_W.mp4":487224,"assets/videos/sp_W2.mp4":595850,"assets/videos/sp_WT.mp4":682716,"assets/videos/sp_Wb.mp4":463691,"assets/videos/sp_WbT.mp4":806668,"assets/videos/sp_Wc.mp4":368021,"assets/videos/sp_WcT.mp4":518172,"assets/videos/win_E.mp4":1664151,"assets/videos/win_Eb.mp4":1416780,"assets/videos/win_Ec.mp4":1516352,"assets/videos/win_Q.mp4":1371788,"assets/videos/win_Qb.mp4":1334217,"assets/videos/win_Qc.mp4":1481245,"assets/videos/win_R.mp4":1211274,"assets/videos/win_Rb.mp4":1201611,"assets/videos/win_Rc.mp4":1199946,"assets/videos/win_Rd.mp4":1812226,"assets/videos/win_W.mp4":1770408,"assets/videos/win_Wb.mp4":1332037,"assets/videos/win_Wc.mp4":1279533};

diff --git a/css/style.css b/css/style.css
@@ -76,7 +76,7 @@ canvas{width:100%;height:100%;display:block}
 .btn{font-family:'Pretendard',sans-serif;font-size:20px;padding:13px 30px;border-radius:999px;border:0;background:var(--holo);color:#15132e;cursor:pointer;box-shadow:0 6px 0 #6b5fb0,0 12px 24px rgba(0,0,0,.4)}
 .btn:active{transform:translateY(4px);box-shadow:0 2px 0 #6b5fb0}
 .joinForm{display:grid;gap:12px;width:100%}#nIn,#nick,#pw{user-select:text;-webkit-user-select:text;touch-action:manipulation}#sNet{z-index:40;background:rgba(7,6,15,.9)}.nbox{display:flex;flex-direction:column;align-items:center;gap:14px;padding:26px 22px;border-radius:20px;border:2px solid var(--line);background:var(--pan);max-width:360px;width:100%;text-align:center}.nbox h3{margin:0;font-family:'Pretendard',sans-serif;font-size:22px}.nbox p{margin:0;color:var(--dim);font-size:13px;line-height:1.5}.nbox .code{font-family:'Bungee',sans-serif;font-size:46px;letter-spacing:.14em;color:#fff;user-select:all;-webkit-user-select:all}.nbox input{font-family:'Bungee',sans-serif;font-size:32px;letter-spacing:.14em;text-align:center;text-transform:uppercase;width:100%;padding:10px;border-radius:12px;border:2px solid var(--line);background:#0b0a1c;color:#fff;outline:none}#netRow .btn{font-size:14px;padding:8px 16px}
-#sTitle{background:#07060f;gap:12px;padding:0 0 calc(14px + env(safe-area-inset-bottom));justify-content:center;overflow:hidden}#sTitle::before{content:'';position:absolute;inset:-40px;background:url(../assets/ui/qofa-cover.jpg?v=c94842ad) center/cover;filter:blur(26px) brightness(.45);z-index:0}#ttl{position:relative;z-index:1;display:block;width:100%;flex:0 1 auto;min-height:0;max-height:calc(100% - 84px);object-fit:contain}#titleForm{position:relative;z-index:1;display:grid;justify-items:center;gap:8px;width:min(92%,360px);flex:0 0 auto}#nick,#pw{width:100%;padding:10px 14px;border:1px solid var(--line);border-radius:12px;background:#15132e;color:var(--txt);font:inherit;font-size:16px;text-align:center}#ttl{max-height:calc(100% - 145px)}#onlineRow .btn{font-size:14px;padding:8px 16px}.rankList{width:100%;border-collapse:collapse;color:var(--txt);font-size:13px}.rankList td,.rankList th{padding:6px;border-bottom:1px solid var(--line)}.rankList td:nth-child(2){overflow-wrap:anywhere}#tGo{position:relative;z-index:1;flex:0 0 auto;font-size:22px;padding:13px 44px;animation:tp 1.2s ease-in-out infinite}@keyframes tp{50%{transform:scale(1.07)}}
+#sTitle{background:#07060f;gap:12px;padding:0 0 calc(14px + env(safe-area-inset-bottom));justify-content:center;overflow:hidden}#sTitle::before{content:'';position:absolute;inset:-40px;background:url(../assets/ui/qofa-cover.jpg?v=895f494d) center/cover;filter:blur(26px) brightness(.45);z-index:0}#ttl{position:relative;z-index:1;display:block;width:100%;flex:0 1 auto;min-height:0;max-height:calc(100% - 84px);object-fit:contain}#titleForm{position:relative;z-index:1;display:grid;justify-items:center;gap:8px;width:min(92%,360px);flex:0 0 auto}#nick,#pw{width:100%;padding:10px 14px;border:1px solid var(--line);border-radius:12px;background:#15132e;color:var(--txt);font:inherit;font-size:16px;text-align:center}#ttl{max-height:calc(100% - 145px)}#onlineRow .btn{font-size:14px;padding:8px 16px}.rankList{width:100%;border-collapse:collapse;color:var(--txt);font-size:13px}.rankList td,.rankList th{padding:6px;border-bottom:1px solid var(--line)}.rankList td:nth-child(2){overflow-wrap:anywhere}#tGo{position:relative;z-index:1;flex:0 0 auto;font-size:22px;padding:13px 44px;animation:tp 1.2s ease-in-out infinite}@keyframes tp{50%{transform:scale(1.07)}}
 .btn.ghost{background:transparent;color:var(--txt);border:2px solid var(--line);box-shadow:none;font-size:16px;padding:10px 22px}
 .btn[disabled]{opacity:.35;pointer-events:none}
 .sub{color:var(--dim);font-size:13px;margin:0;text-align:center}

diff --git a/index.html b/index.html
@@ -10,11 +10,11 @@
 <meta property="og:type" content="website">
 <meta property="og:title" content="큐오파">
 <meta property="og:description" content="Q·W·E·R과 함께하는 아케이드 격투 게임">
-<meta property="og:image" content="https://luckingx2.github.io/qddup-fight/assets/ui/qofa-share.jpg">
+<meta property="og:image" content="https://luckingx2.github.io/qddup-fight/assets/ui/qofa-preview.jpg">
 <meta property="og:image:width" content="1200">
 <meta property="og:image:height" content="630">
 <meta name="twitter:card" content="summary_large_image">
-<link rel="stylesheet" href="css/style.css?v=05471748">
+<link rel="stylesheet" href="css/style.css?v=fec91cba">
 <link rel="stylesheet" href="css/select.css?v=17087a6e">
 </head>
 <body>
@@ -132,7 +132,7 @@
 <div id="winCut"><video id="winVid" playsinline preload="none" aria-label="승리 세리머니"></video><span>화면을 누르면 건너뛰기</span></div>
 <div id="load"><div id="loadT">LOADING</div><div class="gauge"><i id="loadFill"></i></div><div id="loadPct">0%</div></div>
 
-<script src="js/assetv.js?v=91c04226"></script>
+<script src="js/assetv.js?v=af41dfee"></script>
 <script src="js/data.js?v=d43404ca"></script>
 <script src="js/audio.js?v=02f325de"></script>
 <script src="js/screens.js?v=bfc91c93"></script>

diff --git a/TODO.md b/TODO.md
@@ -522,3 +522,10 @@
 - 공지 이미지 `notice/move-list.png`(큐오파 기술표), `notice/update-notice.png`(큐오파 업데이트 안내) 제목 갱신
 - 게임 동작은 바뀌지 않아 빌드 번호는 그대로(20261115212649). 서버도 같은 번호로 바로 배포
 - 미정: 큐오파 오프닝 영상과 음성을 새로 만들지. 주소(`/qddup-fight`), 저장소 이름, 랭킹 서버 이름은 그대로 (바꾸면 로그인·랭킹에 영향)
+
+**표지·썸네일·공지에서 "큐떱"과 "BUSAN" 표기 제거 (2026-11-15 배포)**
+- 사용자 지적: 큐떱부산 말고 큐오파로. 표지 그림 안에 부제 "큐떱 오브 파이터즈"와 "BUSAN '26"이 남아 있었음
+- 썸네일·표지·미리보기를 제목 "큐오파"와 "'26"만 남기고 다시 만듦: `notice/qofa-thumbnail.jpg`(대표, A안), `qofa-thumbnail-a.jpg`, `qofa-thumbnail-b.jpg`, `assets/ui/qofa-cover.jpg`
+- 링크 미리보기 그림은 새 이름 `assets/ui/qofa-preview.jpg`로 올리고 `og:image` 변경 (메신저 캐시 회피). 이전 `qofa-share.jpg`는 삭제
+- `notice/open-notice.png`: "큐오파 새롭게 오픈!"으로 바꾸고 위쪽 그림도 큐오파 표지로 교체
+- 게임 동작은 그대로라 빌드 번호 유지(20261115212649)
